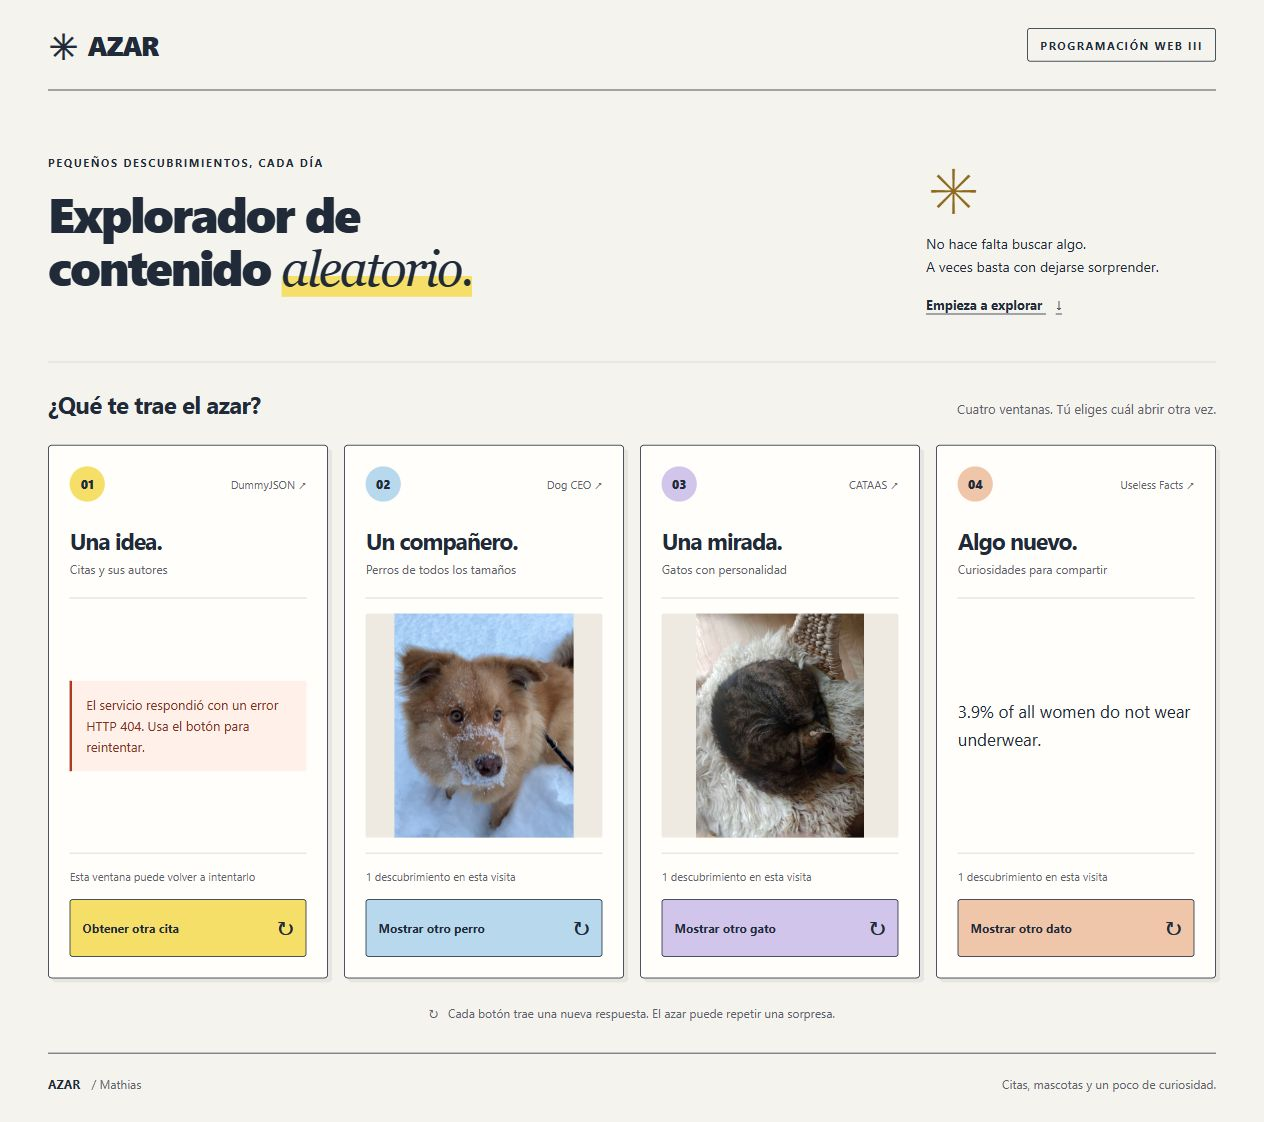
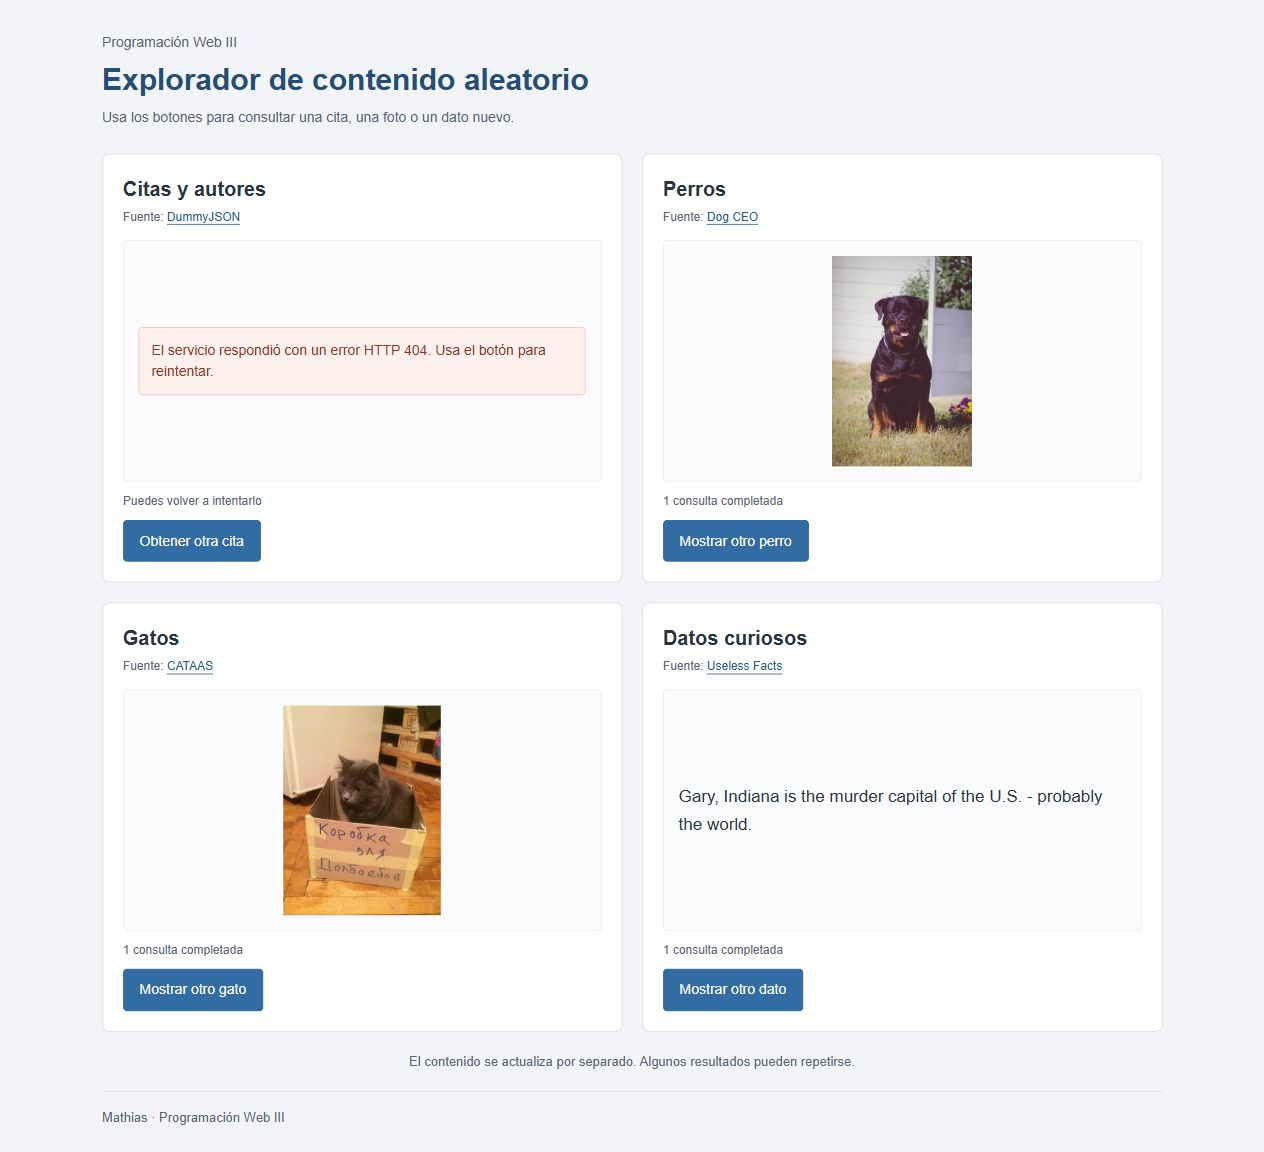
style: simplificar la pagina y los textos del proyecto

diff --git a/assets/explorador.css b/assets/explorador.css
@@ -1,100 +1,72 @@
-:root {
-  color-scheme: light;
-  --papel: #f5f3ed;
-  --tinta: #202a39;
-  --secundario: #5b626d;
-  --linea: #d7d6ce;
-  --amarillo: #f5df68;
-}
-
 * { box-sizing: border-box; }
 [hidden] { display: none !important; }
-html { scroll-behavior: smooth; }
-body { margin: 0; background: var(--papel); color: var(--tinta); font-family: "Segoe UI", Arial, sans-serif; }
-a { color: inherit; text-underline-offset: 4px; }
-button { font: inherit; }
-a:focus-visible, button:focus-visible { outline: 3px solid #1b648f; outline-offset: 5px; }
-.salto { position: fixed; top: -100px; left: 20px; padding: 12px; background: white; z-index: 5; }
-.salto:focus { top: 16px; }
-.barra, main, footer { width: min(1440px, calc(100% - 96px)); margin-inline: auto; }
-.barra { height: 90px; display: flex; justify-content: space-between; align-items: center; border-bottom: 1px solid var(--tinta); }
-.marca { display: inline-flex; align-items: center; gap: 10px; font-size: 27px; letter-spacing: -1.5px; font-weight: 900; text-decoration: none; }
-.marca span { font-size: 35px; }
-.materia, .etiqueta { font-size: 11px; letter-spacing: 1.6px; font-weight: 700; }
-.materia { border: 1px solid var(--tinta); padding: 9px 12px; border-radius: 3px; }
-.portada { display: flex; justify-content: space-between; align-items: center; gap: 40px; padding: 46px 0 48px; }
-.etiqueta { margin: 0 0 17px; }
-h1 { margin: 0; font-size: clamp(36px, 3.9vw, 64px); line-height: 1.06; letter-spacing: -2.4px; font-weight: 800; }
-h1 em { font-family: Georgia, serif; font-weight: 400; background: linear-gradient(transparent 64%, var(--amarillo) 64%); }
-.portada__nota { position: relative; width: 290px; flex: 0 0 auto; padding-top: 20px; }
-.portada__nota p { line-height: 1.65; font-size: 14px; }
-.portada__nota a { font-size: 13px; font-weight: 700; }
-.portada__nota a span { margin-left: 10px; }
-.asterisco { font-size: 62px; line-height: 1; color: #8d691e; }
-.coleccion { padding: 26px 0 30px; border-top: 1px solid var(--linea); scroll-margin-top: 20px; }
-.coleccion__cabecera { display: flex; justify-content: space-between; align-items: baseline; gap: 20px; margin-bottom: 24px; }
-h2 { font-size: 24px; margin: 0; letter-spacing: -.7px; }
-.coleccion__cabecera p { margin: 0; font-size: 13px; color: var(--secundario); }
-.ventanas { display: grid; grid-template-columns: repeat(4, minmax(0, 1fr)); gap: 16px; }
-.ventana { --tono: #f5df68; display: flex; flex-direction: column; background: #fffefa; border: 1px solid var(--tinta); border-radius: 4px; padding: 21px; min-width: 0; box-shadow: 4px 4px 0 #202a3912; }
-.ventana--perro { --tono: #b8d8ee; }
-.ventana--gato { --tono: #d1c5eb; }
-.ventana--dato { --tono: #f0c6ab; }
-.ventana__indice { display: flex; justify-content: space-between; align-items: center; gap: 5px; margin-bottom: 24px; }
-.ventana__indice > span { display: grid; place-items: center; width: 35px; height: 35px; background: var(--tono); border-radius: 50%; font-size: 12px; font-weight: 800; }
-.ventana__indice a { font-size: 11px; color: var(--secundario); text-decoration: none; }
-.ventana__indice a:hover { text-decoration: underline; }
-h3 { margin: 0 0 6px; font-size: clamp(21px, 1.8vw, 28px); letter-spacing: -.9px; }
-.ventana__descripcion { margin: 0; font-size: 12px; color: var(--secundario); }
-.ventana__cuerpo { flex: 1; display: flex; flex-direction: column; justify-content: center; min-height: 256px; margin-top: 20px; padding-block: 15px; border-top: 1px solid var(--linea); border-bottom: 1px solid var(--linea); overflow-wrap: anywhere; }
-.espera { display: flex; align-items: center; justify-content: center; gap: 9px; min-height: 190px; margin: 0; color: var(--secundario); font-size: 14px; }
-.indicador { width: 16px; height: 16px; border: 2px solid var(--linea); border-top-color: var(--tinta); border-radius: 50%; animation: girar .8s linear infinite; }
-@keyframes girar { to { transform: rotate(360deg); } }
-.cita { margin: 0; }
-.comilla { display: block; font: 64px/.7 Georgia, serif; color: #8d691e; }
-blockquote { margin: 15px 0 20px; font: 19px/1.5 Georgia, serif; }
-figcaption { font-size: 12px; font-weight: 650; }
-.foto { width: 100%; background: #eeeae1; border-radius: 2px; }
-.foto img { width: 100%; height: 224px; display: block; object-fit: contain; }
-.dato { margin: 0; font-size: 17px; line-height: 1.65; }
-.aviso { margin: 0; background: #fff0e9; border-left: 3px solid #ae3a22; padding: 14px; color: #842f20; font-size: 13px; line-height: 1.6; }
-.registro { color: var(--secundario); font-size: 11px; line-height: 1.5; margin: 14px 0; min-height: 17px; }
-.ventana button { display: flex; align-items: center; justify-content: space-between; gap: 8px; padding: 14px 12px; min-height: 48px; border: 1px solid var(--tinta); border-radius: 3px; background: var(--tono); color: var(--tinta); font-size: 12px; font-weight: 700; cursor: pointer; transition: box-shadow .15s, transform .15s; }
-.ventana button span { font-size: 20px; }
-.ventana button:hover:enabled { transform: translate(-2px, -2px); box-shadow: 3px 3px 0 var(--tinta); }
-.ventana button:disabled { opacity: .55; cursor: progress; }
-.pie-coleccion { text-align: center; font-size: 12px; color: var(--secundario); margin: 25px 0 0; line-height: 1.6; }
-.pie-coleccion span { margin-right: 6px; }
-footer { display: flex; justify-content: space-between; gap: 20px; padding: 23px 0 30px; border-top: 1px solid var(--tinta); font-size: 12px; color: var(--secundario); }
-footer strong { color: var(--tinta); margin-right: 8px; }
-.sin-javascript { padding: 20px; text-align: center; background: #fff0e9; color: #842f20; }
 
-@media (max-width: 1150px) {
-  .barra, main, footer { width: calc(100% - 56px); }
-  .ventanas { grid-template-columns: repeat(2, minmax(0, 1fr)); gap: 20px; }
-  .portada__nota { width: 240px; }
-  h1 { font-size: 45px; }
+body {
+  margin: 0;
+  background: #f2f4f7;
+  color: #283442;
+  font-family: Arial, sans-serif;
+  line-height: 1.5;
 }
+
+.encabezado, main, footer {
+  width: min(1060px, calc(100% - 36px));
+  margin: 0 auto;
+}
+
+.encabezado { padding: 28px 0 22px; }
+.encabezado p { margin: 4px 0; color: #566373; font-size: 14px; }
+h1 { margin: 8px 0; color: #244e78; font-size: 30px; line-height: 1.25; }
+h2 { margin: 0; font-size: 20px; }
+a { color: #245b90; text-underline-offset: 3px; }
+a:focus-visible, button:focus-visible { outline: 3px solid #245b90; outline-offset: 4px; }
+.salto { position: absolute; left: 12px; top: -60px; background: white; padding: 8px; }
+.salto:focus { top: 8px; }
+
+.ventanas { display: grid; grid-template-columns: repeat(2, minmax(0, 1fr)); gap: 20px; }
+.ventana {
+  display: flex;
+  flex-direction: column;
+  padding: 20px;
+  background: white;
+  border: 1px solid #d7dee5;
+  border-radius: 7px;
+  min-width: 0;
+}
+.fuente { font-size: 12px; color: #596675; margin: 4px 0 14px; }
+.ventana__cuerpo {
+  flex: 1;
+  min-height: 220px;
+  display: flex;
+  flex-direction: column;
+  justify-content: center;
+  border: 1px solid #e6eaf0;
+  background: #fafbfd;
+  padding: 15px;
+  border-radius: 4px;
+  overflow-wrap: anywhere;
+}
+.cita { margin: 0; }
+blockquote { margin: 0 0 16px; font-size: 17px; line-height: 1.65; }
+figcaption { font-size: 13px; color: #4f5f70; }
+.dato { font-size: 17px; line-height: 1.65; margin: 0; }
+.foto img { display: block; width: 100%; height: 210px; object-fit: contain; }
+.espera { text-align: center; font-size: 14px; color: #596675; }
+.indicador { display: none; }
+.aviso { margin: 0; border: 1px solid #efbdb5; border-radius: 4px; padding: 12px; background: #fff1ee; color: #9a3020; font-size: 14px; }
+.registro { margin: 10px 0; font-size: 12px; color: #596675; }
+button { align-self: flex-start; min-height: 42px; padding: 10px 16px; border: 1px solid #285d91; border-radius: 4px; background: #326ca5; color: white; font: 14px Arial, sans-serif; cursor: pointer; }
+button:hover:enabled { background: #285781; }
+button:disabled { opacity: .6; cursor: wait; }
+.pie-coleccion { text-align: center; font-size: 13px; color: #596675; margin: 20px 0; }
+footer { border-top: 1px solid #d7dee5; padding: 16px 0 24px; font-size: 13px; color: #596675; }
+.sin-javascript { text-align: center; padding: 15px; background: #fff1ee; color: #9a3020; }
+
 @media (max-width: 650px) {
-  .barra, main, footer { width: calc(100% - 32px); }
-  .barra { height: 72px; }
-  .marca { font-size: 23px; }
-  .materia { font-size: 8px; letter-spacing: .6px; padding: 8px; }
-  .portada { padding: 35px 0 28px; display: block; }
-  .etiqueta { font-size: 9px; letter-spacing: 1px; }
-  h1 { font-size: clamp(31px, 8.6vw, 48px); letter-spacing: -1.5px; }
-  .portada__nota { width: auto; padding-top: 14px; }
-  .portada__nota p { font-size: 13px; }
-  .asterisco { display: none; }
-  .coleccion__cabecera { display: block; }
-  .coleccion__cabecera p { margin-top: 8px; line-height: 1.5; }
-  .ventanas { grid-template-columns: 1fr; }
-  h3 { font-size: 28px; }
-  .ventana__indice { margin-bottom: 20px; }
-  footer { flex-direction: column; gap: 8px; }
-}
-@media (prefers-reduced-motion: reduce) {
-  html { scroll-behavior: auto; }
-  .indicador { animation: none; }
-  .ventana button { transition: none; }
+  .encabezado, main, footer { width: calc(100% - 28px); }
+  .encabezado { padding-top: 22px; }
+  h1 { font-size: 25px; }
+  .ventanas { grid-template-columns: 1fr; gap: 16px; }
+  .ventana { padding: 16px; }
+  button { width: 100%; }
 }

diff --git a/index.html b/index.html
@@ -3,96 +3,77 @@
 <head>
   <meta charset="utf-8">
   <meta name="viewport" content="width=device-width, initial-scale=1">
-  <meta name="description" content="Una pequeña ventana al azar: citas, perros, gatos y curiosidades desde cuatro APIs públicas.">
-  <title>Explorador de contenido aleatorio · AZAR</title>
+  <meta name="description" content="Proyecto de Programación Web III: consultas a cuatro APIs públicas.">
+  <title>Explorador de contenido aleatorio</title>
   <link rel="stylesheet" href="assets/explorador.css">
   <script src="assets/explorador.js" defer></script>
 </head>
 <body>
   <a class="salto" href="#coleccion">Saltar al contenido</a>
-  <header class="barra">
-    <a class="marca" href="#inicio" aria-label="AZAR, inicio"><span aria-hidden="true">✳</span> AZAR</a>
-    <span class="materia">PROGRAMACIÓN WEB III</span>
+  <header class="encabezado">
+    <p>Programación Web III</p>
+    <h1>Explorador de contenido aleatorio</h1>
+    <p>Usa los botones para consultar una cita, una foto o un dato nuevo.</p>
   </header>
 
-  <main id="inicio">
-    <section class="portada" aria-labelledby="titulo">
-      <div>
-        <p class="etiqueta">PEQUEÑOS DESCUBRIMIENTOS, CADA DÍA</p>
-        <h1 id="titulo">Explorador de<br>contenido <em>aleatorio.</em></h1>
-      </div>
-      <div class="portada__nota">
-        <span class="asterisco" aria-hidden="true">✳</span>
-        <p>No hace falta buscar algo.<br>A veces basta con dejarse sorprender.</p>
-        <a href="#coleccion">Empieza a explorar <span aria-hidden="true">↓</span></a>
-      </div>
-    </section>
-
-    <section id="coleccion" class="coleccion" aria-labelledby="titulo-coleccion">
-      <div class="coleccion__cabecera">
-        <h2 id="titulo-coleccion">¿Qué te trae el azar?</h2>
-        <p>Cuatro ventanas. Tú eliges cuál abrir otra vez.</p>
-      </div>
+  <main>
+    <section id="coleccion" aria-label="Contenido de las APIs">
       <div class="ventanas">
         <article class="ventana ventana--cita" data-panel="cita" aria-labelledby="titulo-cita" aria-busy="true">
-          <div class="ventana__indice"><span>01</span><a href="https://dummyjson.com/docs/quotes">DummyJSON ↗</a></div>
-          <h3 id="titulo-cita">Una idea.</h3>
-          <p class="ventana__descripcion">Citas y sus autores</p>
+          <h2 id="titulo-cita">Citas y autores</h2>
+          <p class="fuente">Fuente: <a href="https://dummyjson.com/docs/quotes">DummyJSON</a></p>
           <div class="ventana__cuerpo">
             <p class="espera" role="status"><span class="indicador" aria-hidden="true"></span>Cargando…</p>
             <div class="resultado" hidden>
-              <figure class="cita"><span class="comilla" aria-hidden="true">“</span><blockquote></blockquote><figcaption></figcaption></figure>
+              <figure class="cita"><blockquote></blockquote><figcaption></figcaption></figure>
             </div>
             <p class="aviso" role="alert" hidden></p>
           </div>
-          <p class="registro" aria-live="polite">Preparando tu primer descubrimiento</p>
-          <button type="button" disabled>Obtener otra cita <span aria-hidden="true">↻</span></button>
+          <p class="registro" aria-live="polite">Esperando contenido</p>
+          <button type="button" disabled>Obtener otra cita</button>
         </article>
 
         <article class="ventana ventana--perro" data-panel="perro" aria-labelledby="titulo-perro" aria-busy="true">
-          <div class="ventana__indice"><span>02</span><a href="https://dog.ceo/dog-api/documentation/random">Dog CEO ↗</a></div>
-          <h3 id="titulo-perro">Un compañero.</h3>
-          <p class="ventana__descripcion">Perros de todos los tamaños</p>
+          <h2 id="titulo-perro">Perros</h2>
+          <p class="fuente">Fuente: <a href="https://dog.ceo/dog-api/documentation/random">Dog CEO</a></p>
           <div class="ventana__cuerpo">
             <p class="espera" role="status"><span class="indicador" aria-hidden="true"></span>Cargando…</p>
             <div class="resultado foto" hidden><img alt="Perro elegido al azar por Dog CEO" width="480" height="360"></div>
             <p class="aviso" role="alert" hidden></p>
           </div>
-          <p class="registro" aria-live="polite">Preparando tu primer descubrimiento</p>
-          <button type="button" disabled>Mostrar otro perro <span aria-hidden="true">↻</span></button>
+          <p class="registro" aria-live="polite">Esperando contenido</p>
+          <button type="button" disabled>Mostrar otro perro</button>
         </article>
 
         <article class="ventana ventana--gato" data-panel="gato" aria-labelledby="titulo-gato" aria-busy="true">
-          <div class="ventana__indice"><span>03</span><a href="https://cataas.com/">CATAAS ↗</a></div>
-          <h3 id="titulo-gato">Una mirada.</h3>
-          <p class="ventana__descripcion">Gatos con personalidad</p>
+          <h2 id="titulo-gato">Gatos</h2>
+          <p class="fuente">Fuente: <a href="https://cataas.com/">CATAAS</a></p>
           <div class="ventana__cuerpo">
             <p class="espera" role="status"><span class="indicador" aria-hidden="true"></span>Cargando…</p>
             <div class="resultado foto" hidden><img alt="Gato elegido al azar por CATAAS" width="480" height="360"></div>
             <p class="aviso" role="alert" hidden></p>
           </div>
-          <p class="registro" aria-live="polite">Preparando tu primer descubrimiento</p>
-          <button type="button" disabled>Mostrar otro gato <span aria-hidden="true">↻</span></button>
+          <p class="registro" aria-live="polite">Esperando contenido</p>
+          <button type="button" disabled>Mostrar otro gato</button>
         </article>
 
         <article class="ventana ventana--dato" data-panel="dato" aria-labelledby="titulo-dato" aria-busy="true">
-          <div class="ventana__indice"><span>04</span><a href="https://uselessfacts.jsph.pl/">Useless Facts ↗</a></div>
-          <h3 id="titulo-dato">Algo nuevo.</h3>
-          <p class="ventana__descripcion">Curiosidades para compartir</p>
+          <h2 id="titulo-dato">Datos curiosos</h2>
+          <p class="fuente">Fuente: <a href="https://uselessfacts.jsph.pl/">Useless Facts</a></p>
           <div class="ventana__cuerpo">
             <p class="espera" role="status"><span class="indicador" aria-hidden="true"></span>Cargando…</p>
             <div class="resultado" hidden><p class="dato"></p></div>
             <p class="aviso" role="alert" hidden></p>
           </div>
-          <p class="registro" aria-live="polite">Preparando tu primer descubrimiento</p>
-          <button type="button" disabled>Mostrar otro dato <span aria-hidden="true">↻</span></button>
+          <p class="registro" aria-live="polite">Esperando contenido</p>
+          <button type="button" disabled>Mostrar otro dato</button>
         </article>
       </div>
-      <p class="pie-coleccion"><span aria-hidden="true">↻</span> Cada botón trae una nueva respuesta. El azar puede repetir una sorpresa.</p>
+      <p class="pie-coleccion">El contenido se actualiza por separado. Algunos resultados pueden repetirse.</p>
     </section>
   </main>
 
-  <footer><span><strong>AZAR</strong> / Mathias</span><span>Citas, mascotas y un poco de curiosidad.</span></footer>
+  <footer>Mathias · Programación Web III</footer>
   <noscript><p class="sin-javascript">Activa JavaScript para consultar y mostrar el contenido de las cuatro APIs.</p></noscript>
 </body>
 </html>

diff --git a/assets/explorador.js b/assets/explorador.js
@@ -126,7 +126,7 @@ function conectarTarjeta(nombre, consulta) {
   const aviso = panel.querySelector(".aviso");
   const registro = panel.querySelector(".registro");
   let ocupada = false;
-  let descubrimientos = 0;
+  let consultasRealizadas = 0;
 
   async function actualizar() {
     if (ocupada) return;
@@ -136,18 +136,18 @@ function conectarTarjeta(nombre, consulta) {
     espera.hidden = false;
     resultado.hidden = true;
     aviso.hidden = true;
-    registro.textContent = "Buscando tu próxima sorpresa…";
+    registro.textContent = "Consultando…";
 
     try {
       const contenido = await consulta();
       await representar(panel, contenido);
-      descubrimientos += 1;
+      consultasRealizadas += 1;
       resultado.hidden = false;
-      registro.textContent = `${descubrimientos} ${descubrimientos === 1 ? "descubrimiento" : "descubrimientos"} en esta visita`;
+      registro.textContent = `${consultasRealizadas} ${consultasRealizadas === 1 ? "consulta completada" : "consultas completadas"}`;
     } catch (fallo) {
       aviso.textContent = `${fallo.message} Usa el botón para reintentar.`;
       aviso.hidden = false;
-      registro.textContent = "Esta ventana puede volver a intentarlo";
+      registro.textContent = "Puedes volver a intentarlo";
     } finally {
       espera.hidden = true;
       boton.disabled = false;

diff --git a/README.md b/README.md
@@ -1,16 +1,16 @@
-# AZAR · Explorador de contenido aleatorio
+# Explorador de contenido aleatorio
 
 **Estudiante:** Mathias
 
 **Materia:** Programación Web III
 
-Implementación nueva realizada con asistencia de Codex a partir de la consigna de la materia. Usa HTML, CSS y JavaScript, sin bibliotecas externas, base de datos ni inicio de sesión.
+Página hecha con HTML, CSS y JavaScript para practicar consultas a APIs. Se utilizó Codex como apoyo durante el desarrollo. No necesita base de datos ni inicio de sesión.
 
 ## Qué hace
 
 Al entrar aparecen cuatro tarjetas con una cita, un perro, un gato y un dato curioso. Cada botón consulta exclusivamente su API. Mientras espera, la tarjeta muestra «Cargando…» y deshabilita su botón. Los errores se muestran dentro de la tarjeta y permiten reintentar sin recargar la página.
 
-El diseño usa cuatro columnas en pantallas amplias, dos en pantallas intermedias y una en teléfonos. Las fotografías ocupan espacios uniformes y usan `object-fit: contain` para mostrarse completas. Cada tarjeta cuenta las consultas exitosas de la visita; los resultados aleatorios pueden repetirse.
+Las tarjetas se organizan en dos columnas en computadora y en una columna en teléfonos. Las fotografías ocupan espacios uniformes y usan `object-fit: contain` para mostrarse completas. Cada tarjeta cuenta las consultas exitosas de la visita; los resultados aleatorios pueden repetirse.
 
 ## Archivos
 
